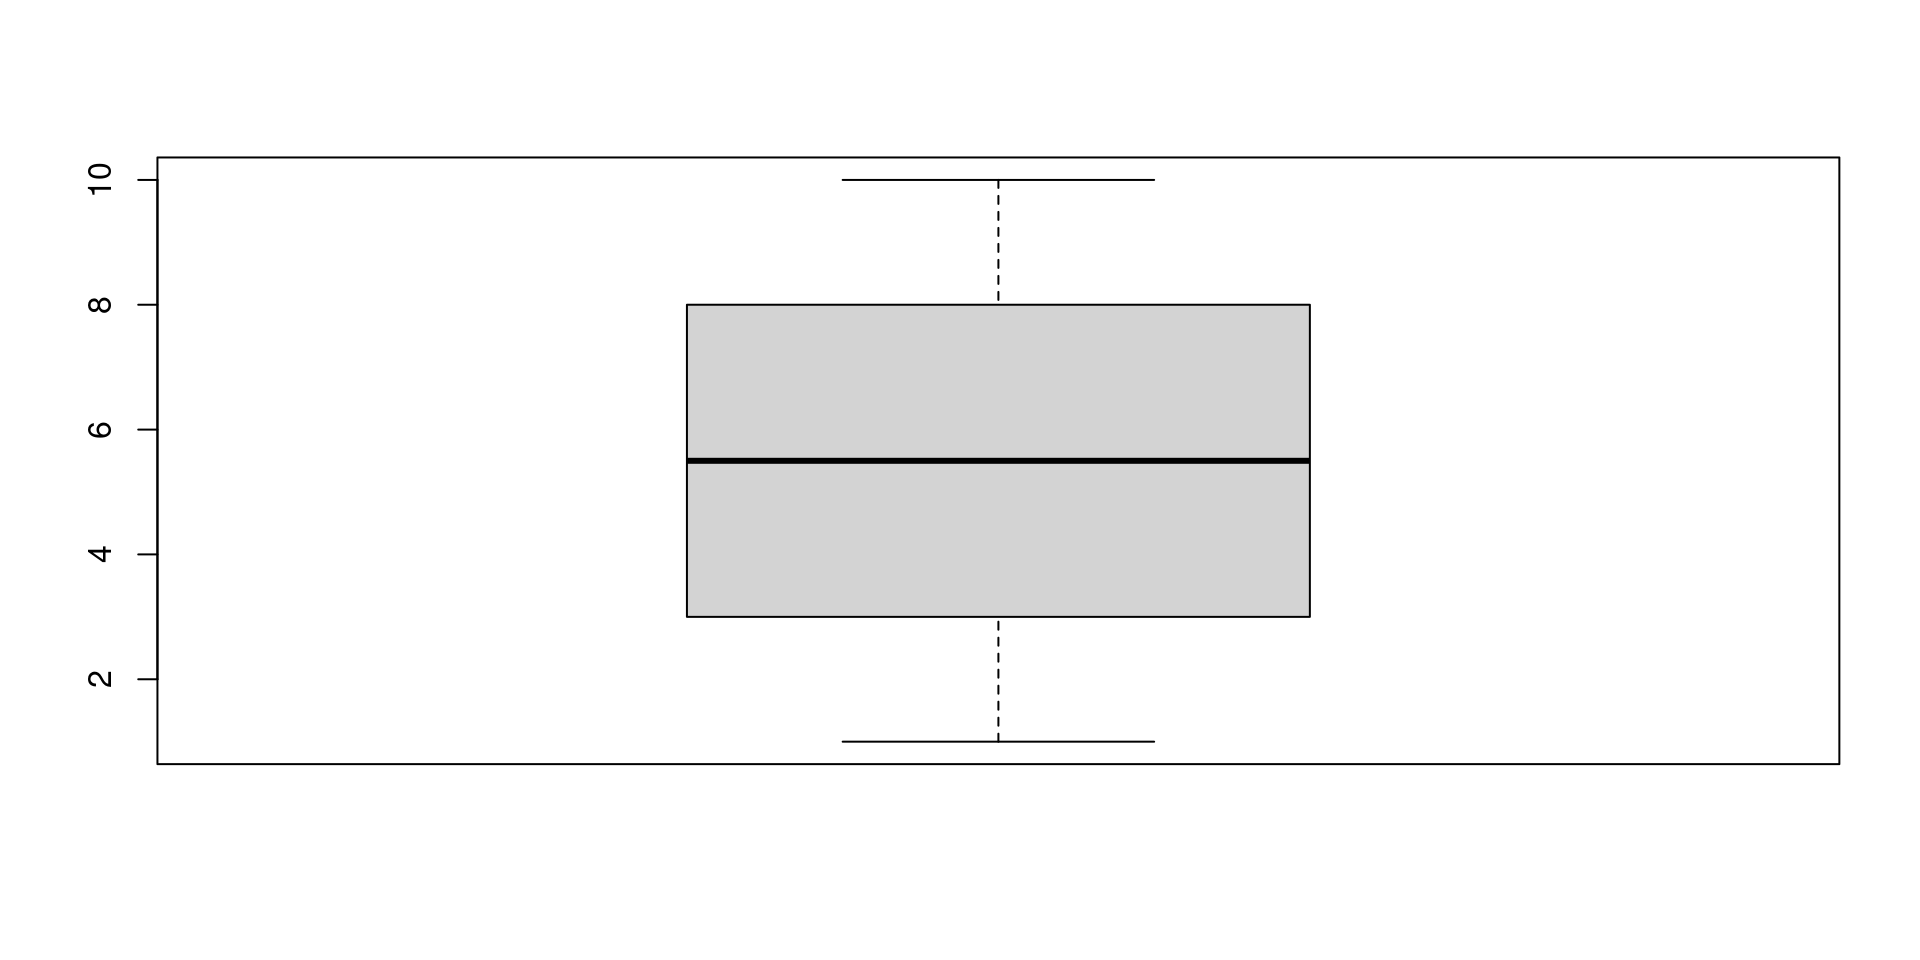
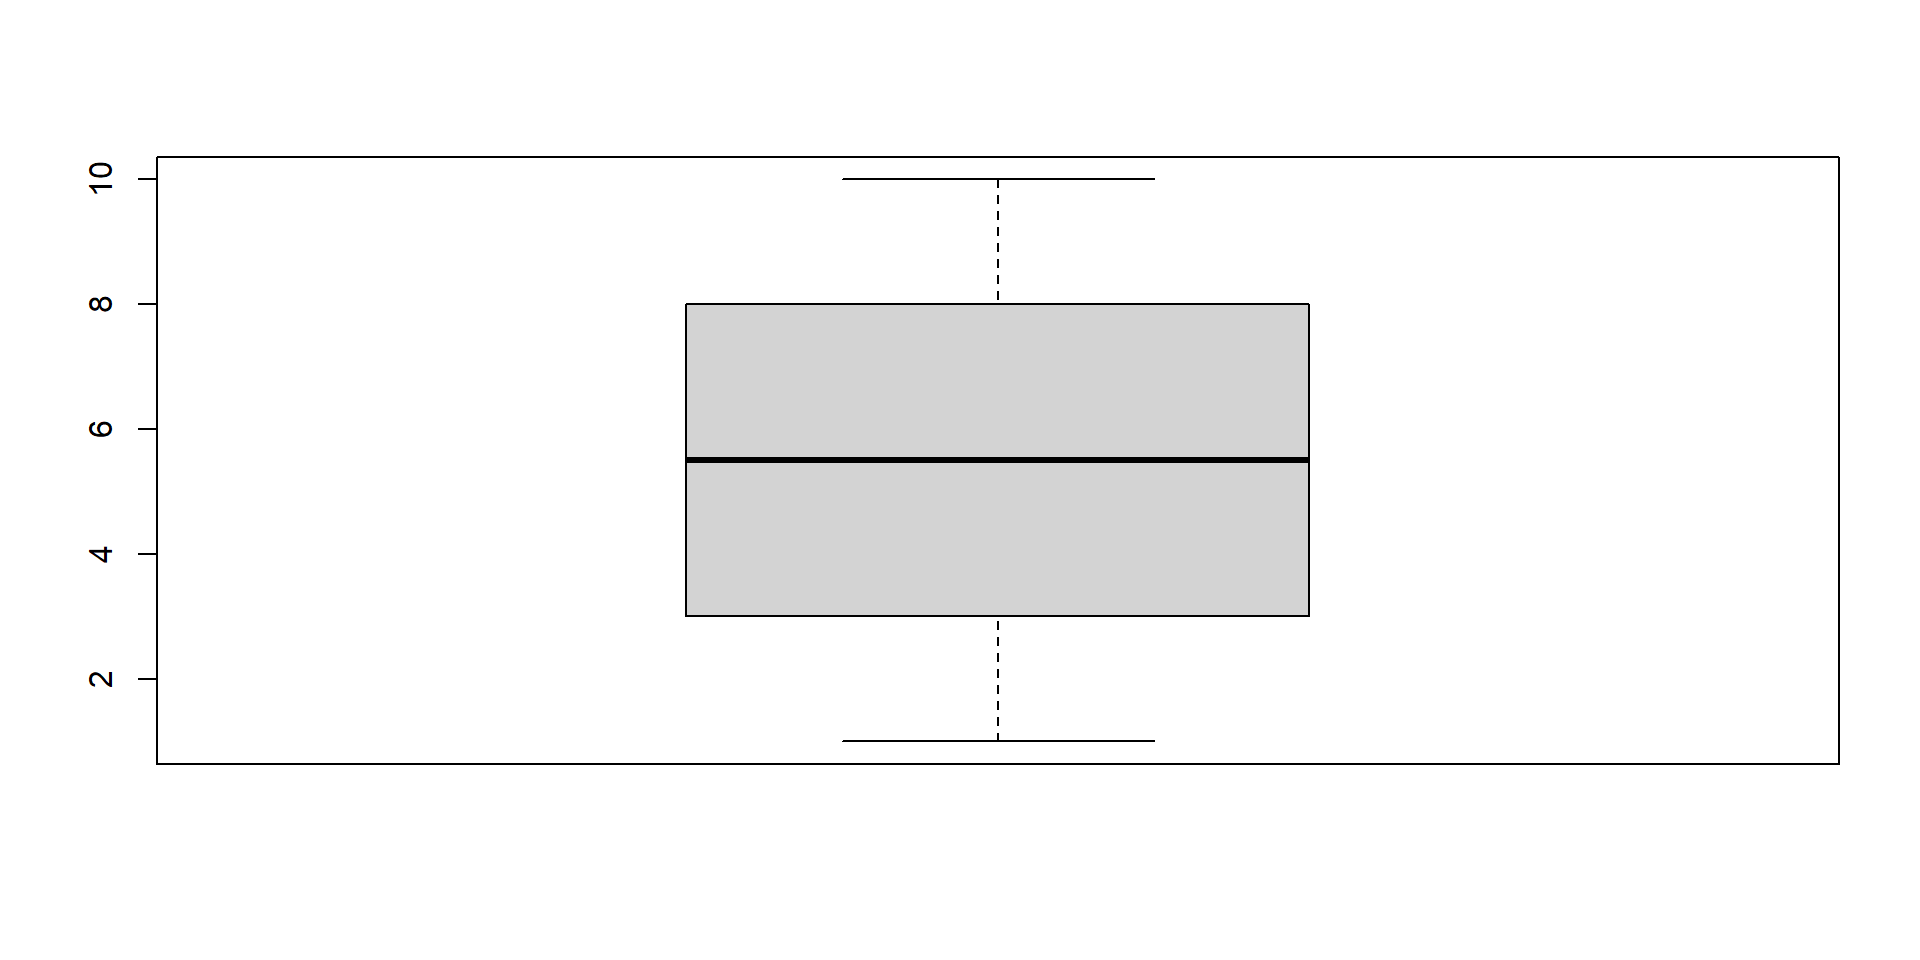
Atualização

diff --git a/docs/index.html b/docs/index.html
@@ -6,8 +6,8 @@
 <script src="index_files/libs/quarto-html/tippy.umd.min.js"></script>
 <link href="index_files/libs/quarto-html/tippy.css" rel="stylesheet">
 <link href="index_files/libs/quarto-html/light-border.css" rel="stylesheet">
-<link href="index_files/libs/quarto-html/quarto-syntax-highlighting-587c61ba64f3a5504c4d52d930310e48.css" rel="stylesheet" id="quarto-text-highlighting-styles"><meta charset="utf-8">
-  <meta name="generator" content="quarto-1.8.26">
+<link href="index_files/libs/quarto-html/quarto-syntax-highlighting-845c23b38eaddc0f92fda52bfe77a8c8.css" rel="stylesheet" id="quarto-text-highlighting-styles"><meta charset="utf-8">
+  <meta name="generator" content="quarto-1.9.36">
 
   <meta name="author" content="Agatha (agathadias@id.uff.br)">
   <title>PRÁTICA ESTATÍSTICA II</title>
@@ -17,6 +17,9 @@
   <link rel="stylesheet" href="index_files/libs/revealjs/dist/reset.css">
   <link rel="stylesheet" href="index_files/libs/revealjs/dist/reveal.css">
   <style>
+    /* Default styles provided by pandoc.
+    ** See https://pandoc.org/MANUAL.html#variables-for-html for config info.
+    */
     code{white-space: pre-wrap;}
     span.smallcaps{font-variant: small-caps;}
     div.columns{display: flex; gap: min(4vw, 1.5em);}
@@ -29,7 +32,7 @@
       vertical-align: middle;
     }
   </style>
-  <link rel="stylesheet" href="index_files/libs/revealjs/dist/theme/quarto-534cd8e3a96973385dffff3f4709048d.css">
+  <link rel="stylesheet" href="index_files/libs/revealjs/dist/theme/quarto-2740581606dc327e82f18f789b69d8a0.css">
   <link rel="stylesheet" href="custom.css">
   <link href="index_files/libs/revealjs/plugin/quarto-line-highlight/line-highlight.css" rel="stylesheet">
   <link href="index_files/libs/revealjs/plugin/reveal-menu/menu.css" rel="stylesheet">
@@ -127,7 +130,7 @@
   <div class="reveal">
     <div class="slides">
 
-<section id="title-slide" data-background-image="Nutricao.png" data-background-size="cover" class="quarto-title-block center">
+<section id="title-slide" data-background-image="Nuticao.png" data-background-size="cover" class="quarto-title-block center">
   <h1 class="title"><strong>PRÁTICA ESTATÍSTICA II</strong></h1>
   <p class="subtitle"><strong>ATIVIDADE AVALIATIVA 6</strong></p>
 
@@ -145,77 +148,111 @@ Agatha (<a href="mailto:agathadias@id.uff.br" class="email">agathadias@id.uff.br
   <p class="date">13/05/2026</p>
 </section>
 <section>
-<section id="introdução" class="title-slide slide level1 center" data-background-image="Nutricao.png" style="text-align:center">
+<section id="introdução" class="title-slide slide level1 center" data-background-image="Nuticao.png" style="text-align:center">
 <h1><strong>INTRODUÇÃO</strong></h1>
 
 </section>
-<section id="contextualização-do-tema" class="slide level2">
+<section id="contextualização-do-tema" class="slide level2 scrollable">
 <h2>Contextualização do tema</h2>
-<ul>
-<li>Pandemia de COVID-19 provocou mudanças:
-<ul>
-<li>sociais;</li>
-<li>econômicas;</li>
-<li>emocionais;</li>
-<li>comportamentais.</li>
-</ul></li>
-</ul>
 <p><br></p>
-<ul>
-<li>Alterações na rotina:
-<ul>
-<li>isolamento social;</li>
-<li>trabalho remoto;</li>
-<li>insegurança alimentar;</li>
-<li>mudanças na prática de atividade física.</li>
-</ul></li>
-</ul>
+<p>Pandemia de COVID-19 provocou mudanças:</p>
+<div class="columns">
+<div class="column" style="width:50%;">
+<div class="box-blue">
+<p><strong>Sociais</strong></p>
+</div>
+<div class="box-green">
+<p><strong>Econômicas</strong></p>
+</div>
+</div><div class="column" style="width:50%;">
+<div class="box-purple">
+<p><strong>Emocionais</strong></p>
+</div>
+<div class="box-orange">
+<p><strong>Comportamentais</strong></p>
+</div>
+</div></div>
 <p><br></p>
-<ul>
-<li>Impacto potencial sobre hábitos alimentares.</li>
-</ul>
+<p>Alterações na rotina:</p>
+<div class="columns">
+<div class="column" style="width:50%;">
+<div class="box-blue">
+<p><strong>Isolamento social</strong></p>
+</div>
+<div class="box-green">
+<p><strong>Trabalho remoto</strong></p>
+</div>
+</div><div class="column" style="width:50%;">
+<div class="box-purple">
+<p><strong>Insegurança alimentar</strong></p>
+</div>
+<div class="box-orange">
+<p><strong>Mudanças na prática de atividade física</strong></p>
+</div>
+</div></div>
+<p><br></p>
+<p><strong>Impacto potencial sobre hábitos alimentares.</strong></p>
 </section>
 <section id="problema-de-pesquisa" class="slide level2">
 <h2>Problema de Pesquisa</h2>
-<p>Queremos entender se a COVID-19 influenciou a nutrição dos indivíuos com relação a:</p>
 <p><br></p>
+<p>Essa pesquisa explora como a COVID-19 influenciou a nutrição dos indivíuos com relação a:</p>
 <ol type="1">
 <li>Mudanças alimentares entre indivíduos.</li>
 <li>Fatores socioeconômicos e emocionais.</li>
 <li>Nível de autocuidado</li>
 </ol>
+<div class="box-orange">
 <p>A variável resposta central deste estudo é: <strong>Delivery</strong></p>
+</div>
 </section>
-<section id="objetivos" class="slide level2">
+<section id="objetivos" class="slide level2 scrollable">
 <h2>Objetivos</h2>
 <p><br></p>
-<p><strong>Objetivo Geral</strong><br> - Avaliar a associação entre a variável resposta selecionada e as demais variáveis do banco de dados.</p>
+<p><strong>Objetivo Geral</strong></p>
+<ul>
+<li>Avaliar a associação entre a variável resposta selecionada e as demais variáveis do banco de dados.</li>
+</ul>
 <p><br></p>
-<p><strong>Objetivos Específicos</strong><br> - Identificar padrões de mudança alimentar; - Investigar fatores associados: - renda; - escolaridade; - isolamento; - atividade física; - acesso aos alimentos; - sentimentos durante a pandemia; - Explorar desigualdades sociais relacionadas à alimentação.</p>
+<p><strong>Objetivos Específicos:</strong></p>
+<ul>
+<li>Identificar padrões de mudança alimentar;</li>
+<li>Investigar fatores associados:
+<ul>
+<li>renda;</li>
+<li>escolaridade;</li>
+<li>isolamento;</li>
+<li>atividade física;</li>
+<li>acesso aos alimentos;</li>
+<li>sentimentos durante a pandemia;</li>
+</ul></li>
+<li>Explorar desigualdades sociais relacionadas à alimentação.</li>
+</ul>
 </section></section>
 <section>
-<section id="metodologia" class="title-slide slide level1 center" data-background-image="Nutricao.png" style="text-align:center">
+<section id="metodologia" class="title-slide slide level1 center" data-background-image="Nuticao.png" style="text-align:center">
 <h1><strong>METODOLOGIA</strong></h1>
 
 </section>
 <section id="delineamento-do-estudo" class="slide level2">
 <h2>Delineamento do Estudo</h2>
-<p><strong>Informações:</strong> - Estudo observacional transversal - Dados coletados em 2022 - Questionário online - Contexto: Pândemia de COVID-19</p>
+<p><strong>Informações:</strong></p>
+<ul>
+<li>Estudo observacional transversal</li>
+<li>Dados coletados em 2022</li>
+<li>Questionário online</li>
+<li>Contexto: Pândemia de COVID-19</li>
+</ul>
 <p><br></p>
 <p><strong>Amostra</strong> - 2310 indivíduos</p>
 <p><br></p>
 <p><strong>Origem dos dados</strong> - Pós-graduação em Nutrição - UFF</p>
 </section>
-<section id="variáveis-do-estudo" class="slide level2">
+<section id="variáveis-do-estudo" class="slide level2 scrollable">
 <h2>Variáveis do Estudo</h2>
 <p><br></p>
-<ul>
-<li><strong>Variável Resposta</strong>
-<ul>
-<li>Delivery</li>
-</ul></li>
-</ul>
-<p><br></p>
+<div class="columns">
+<div class="column" style="width:50%;">
 <ul>
 <li><strong>Variáveis Explicativas Categóricas</strong>
 <ul>
@@ -236,7 +273,7 @@ Agatha (<a href="mailto:agathadias@id.uff.br" class="email">agathadias@id.uff.br
 <li>Atividade física.</li>
 </ul></li>
 </ul>
-<p><br></p>
+</div><div class="column" style="width:50%;">
 <ul>
 <li><strong>Variáveis Quantitativas</strong>
 <ul>
@@ -247,16 +284,69 @@ Agatha (<a href="mailto:agathadias@id.uff.br" class="email">agathadias@id.uff.br
 </ul></li>
 </ul>
 <p><br></p>
-<p><strong>Variável Aberta</strong> - sentimentos durante a pandemia.</p>
+<ul>
+<li><strong>Variável Aberta</strong>
+<ul>
+<li>sentimentos durante a pandemia.</li>
+</ul></li>
+</ul>
+<p><br></p>
+<ul>
+<li><strong>Variável Resposta</strong>
+<ul>
+<li>Delivery</li>
+</ul></li>
+</ul>
+</div></div>
 </section>
 <section id="análises-estatísticas" class="slide level2">
 <h2>Análises Estatísticas</h2>
-<p><strong>Variáveis Qualitativas</strong> - Tabelas de contingência; - Frequências absolutas; - Frequências relativas (% por linha).</p>
 <p><br></p>
-<p><strong>Testes de Associação</strong> - Teste Qui-Quadrado de Pearson; - Teste Exato de Fisher (quando necessário).</p>
+<div class="columns">
+<div class="column" style="width:50%;">
+<p><strong>Variáveis Qualitativas:</strong></p>
+<ul>
+<li>Tabelas de contingência;</li>
+<li>Frequências absolutas;</li>
+<li>Frequências relativas (% por linha).</li>
+</ul>
 <p><br></p>
-<p><strong>Medida de Associação</strong> - V de Cramér:</p>
-<p><br> <strong>Caselas Influentes</strong> - Resíduos padronizados</p>
+<p><strong>Testes de Associação:</strong></p>
+<ul>
+<li>Teste Qui-Quadrado de Pearson;</li>
+<li>Teste Exato de Fisher (quando necessário).</li>
+</ul>
+</div><div class="column" style="width:50%;">
+<p><strong>Medida de Associação:</strong></p>
+<ul>
+<li>V de Cramér:</li>
+</ul>
+<p><br> <strong>Caselas Influentes:</strong></p>
+<ul>
+<li>Resíduos padronizados</li>
+</ul>
+</div></div>
+</section></section>
+<section>
+<section id="resultados" class="title-slide slide level1 center" data-background-image="Nuticao.png" style="text-align:center">
+<h1><strong>Resultados</strong></h1>
+
+</section>
+<section id="variáveis-categóricas" class="slide level2 scrollable">
+<h2><strong>Variáveis Categóricas</strong></h2>
+<p><br> <img data-src="tabela_qualitativa.png" class="quarto-figure quarto-figure-center" style="width:100.0%"></p>
+</section>
+<section id="variáveis-quantitativas" class="slide level2 scrollable">
+<h2><strong>Variáveis Quantitativas</strong></h2>
+<p><br> <img data-src="Tabela%20quantitativa.png" class="quarto-figure quarto-figure-center" style="width:100.0%"></p>
+</section>
+<section id="nuvem-de-palavras" class="slide level2">
+<h2><strong>Nuvem de palavras</strong></h2>
+<div class="quarto-figure quarto-figure-center">
+<figure>
+<p><img data-src="Nuvem%20de%20palavras.png" class="quarto-figure quarto-figure-center" style="width:100.0%"></p>
+</figure>
+</div>
 </section>
 <section id="blocos" class="slide level2">
 <h2><strong>BLOCOS</strong></h2>
@@ -721,42 +811,80 @@ y = \frac{-b \pm \sqrt{b^2 - 4ac}}{2a}
       });
     </script>
     
+
     <script>
+
       // htmlwidgets need to know to resize themselves when slides are shown/hidden.
+
       // Fire the "slideenter" event (handled by htmlwidgets.js) when the current
+
       // slide changes (different for each slide format).
+
       (function () {
+
         // dispatch for htmlwidgets
+
         function fireSlideEnter() {
+
           const event = window.document.createEvent("Event");
+
           event.initEvent("slideenter", true, true);
+
           window.document.dispatchEvent(event);
+
         }
+
+    
 
         function fireSlideChanged(previousSlide, currentSlide) {
+
           fireSlideEnter();
 
+    
+
           // dispatch for shiny
+
           if (window.jQuery) {
+
             if (previousSlide) {
+
               window.jQuery(previousSlide).trigger("hidden");
+
             }
+
             if (currentSlide) {
+
               window.jQuery(currentSlide).trigger("shown");
+
             }
+
           }
+
         }
+
+    
 
         // hookup for slidy
+
         if (window.w3c_slidy) {
+
           window.w3c_slidy.add_observer(function (slide_num) {
+
             // slide_num starts at position 1
+
             fireSlideChanged(null, w3c_slidy.slides[slide_num - 1]);
+
           });
+
         }
 
+    
+
       })();
+
     </script>
+
+    
 
     <script id="quarto-html-after-body" type="application/javascript">
       window.document.addEventListener("DOMContentLoaded", function (event) {

diff --git a/docs/custom.css b/docs/custom.css
@@ -36,20 +36,16 @@
 
 
 /* ===== Slide de título ===== */
+
 .reveal .title-slide {
-  background: linear-gradient(
-    135deg,
-    #2563eb99 0%,   /* azul com transparência */
-    #7c3aed99 50%,   /* roxo com transparência */
-    #05966999 100%   /* verde com transparência */
-  );
-  color: #336699;
+  background: transparent; /* sem cor */
+  color: #2563eb; /* azul */
 }
 
 .reveal .title-slide h1,
 .reveal .title-slide h2,
 .reveal .title-slide p {
-  color: white;
+  color: #336699;
 }
 
 /* ===== Texto ===== */
@@ -131,4 +127,3 @@
   font-size: 0.5em;
   color: #64748b;
 }
-
